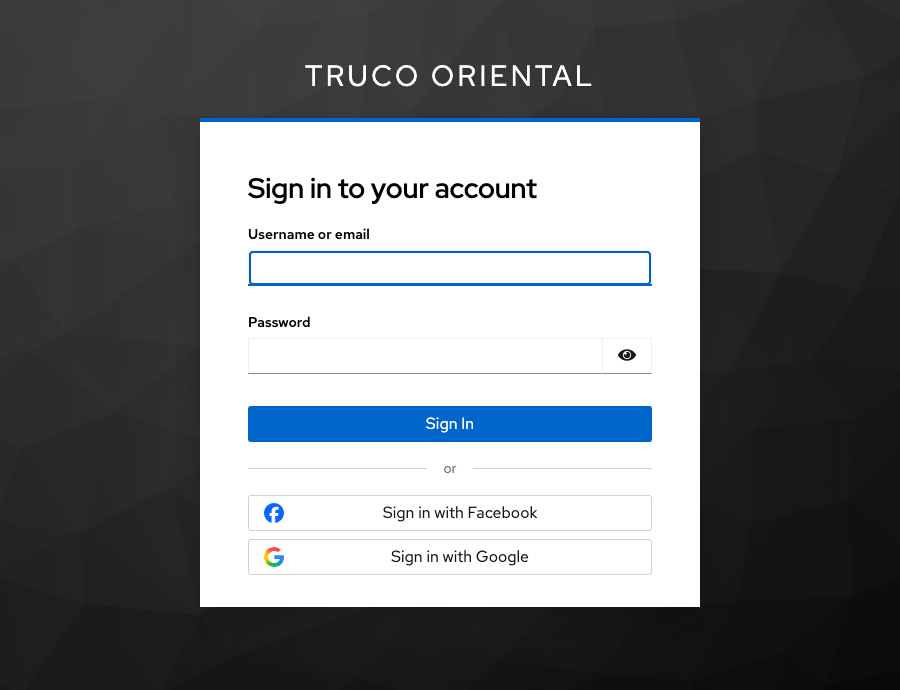
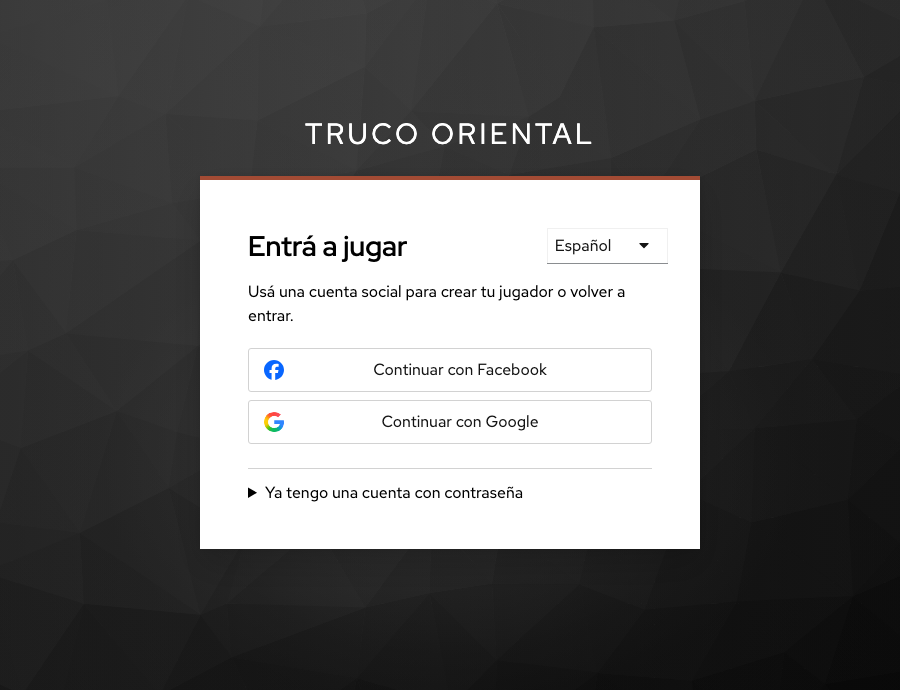
Priorizar el ingreso con Google y Facebook en la pantalla de Keycloak (#207)

diff --git a/infra/keycloak/truco-oriental/login/resources/css/truco.css b/infra/keycloak/truco-oriental/login/resources/css/truco.css
@@ -1,0 +1,38 @@
+main:has(.truco-social) {
+    --keycloak-card-top-color: #a34b34;
+}
+
+.truco-social > .kc-login-divider {
+    display: none;
+}
+
+#truco-social-intro {
+    margin-block-end: 1.25rem;
+}
+
+.truco-social #kc-social-providers ul {
+    padding-block-start: 0;
+}
+
+.truco-social #kc-social-providers a {
+    min-height: 2.75rem;
+}
+
+#truco-existing-account {
+    margin-block-start: 1.5rem;
+    border-block-start: 1px solid var(--pf-v5-global--BorderColor--100);
+}
+
+#truco-existing-account summary {
+    cursor: pointer;
+    padding-block: 0.75rem;
+}
+
+#truco-existing-account summary:focus-visible {
+    outline: 2px solid currentColor;
+    outline-offset: 2px;
+}
+
+#truco-existing-account[open] summary {
+    margin-block-end: 0.5rem;
+}

diff --git a/docs/ingreso-social.md b/docs/ingreso-social.md
@@ -1,8 +1,10 @@
 # Habilitar el ingreso con Google y Facebook
 
-Al elegir **Ingresar al juego**, el jugador llega a Keycloak. Allí puede usar su cuenta local o cualquiera de los proveedores que hayas habilitado. La API sigue recibiendo la identidad de Keycloak y emite su propia cookie de sesión. Podés habilitar un solo proveedor y agregar el otro más adelante.
+Al elegir **Ingresar al juego**, el jugador llega a **Entrá a jugar** en Keycloak. Para crear su jugador o volver a la mesa, elige **Continuar con Google** o **Continuar con Facebook**. La pantalla muestra solo los proveedores habilitados. Quien ya tiene una contraseña puede desplegar **Ya tengo una cuenta con contraseña**. El registro por correo está desactivado.
 
 ![Pantalla de ingreso de Truco Oriental con las opciones Facebook y Google](ingreso-social.png)
+
+Podés habilitar uno de los proveedores y agregar el otro más adelante. Si todavía no habilitaste ninguno, Keycloak muestra el formulario de contraseña. La API recibe la identidad de Keycloak y emite su propia cookie de sesión.
 
 ## URLs que tenés que registrar
 
@@ -67,8 +69,24 @@ node scripts/configurar-ingreso-social.mjs google
 node scripts/configurar-ingreso-social.mjs facebook
 ```
 
+## Activar la pantalla de Truco Oriental
+
+Con un volumen nuevo, Compose ya selecciona el tema `truco-oriental` para el realm `mesa-local`, con español e inglés y español como idioma predeterminado. Si el realm existe, Keycloak conserva su configuración al arrancar. Para actualizar la instalación local y elegir el tema sobre ese mismo volumen, ejecutá estos comandos. Reemplazá `admin-social-local` por tu administrador de `master` y escribí su contraseña cuando Keycloak la pida. [Importación al arrancar Keycloak](https://www.keycloak.org/server/importExport#_importing_a_realm_during_startup)
+
+```sh
+docker compose up -d --build --wait identidad
+docker compose exec identidad /opt/keycloak/bin/kcadm.sh update realms/mesa-local -n \
+  --no-config --server http://localhost:8080 --realm master --user admin-social-local \
+  -s loginTheme=truco-oriental -s internationalizationEnabled=true \
+  -s 'supportedLocales=["es","en"]' -s defaultLocale=es
+```
+
+En una instalación propia de Keycloak, incluí la carpeta `infra/keycloak/truco-oriental` en el directorio `themes` de cada servidor. En la consola administrativa, seleccioná el realm del juego, abrí **Realm settings → Themes**, elegí **truco-oriental** en **Login theme** y guardá. En **Realm settings → Localization**, activá **Internationalization**, agregá español e inglés a los idiomas disponibles y guardá español como predeterminado. El selector de idioma permite pasar de **Entrá a jugar** a **Sign in to play**. [Temas de Keycloak](https://www.keycloak.org/ui-customization/themes)
+
 ## Comprobar el ingreso y la vinculación
 
 Abrí **Ingresar al juego** desde una ventana privada. Elegí el proveedor, completá el ingreso y anotá el ID de jugador. Cerrá sesión y volvé a entrar con la misma cuenta en otra ventana privada. Deberías recuperar el mismo ID y poder volver a tu mesa. Probá también cancelar en la pantalla del proveedor y volver a iniciar el ingreso.
 
-El comando conserva el flujo de primer ingreso y los permisos de un proveedor que ya existía. Revisá los permisos y quitá los adicionales si solo usás el ingreso. Si el correo coincide con una cuenta existente, comprobá que el flujo exige demostrar el control de esa cuenta antes de vincularla. Conservá **Trust email** desactivado. Si el correo de confirmación resulta insuficiente, configurá la verificación con el método de ingreso original. Si Facebook omite el correo y el realm lo exige, el jugador puede completarlo al revisar su perfil. La identidad del jugador se guarda por emisor y sujeto de Keycloak. [Vinculación de identidades en Keycloak](https://www.keycloak.org/docs/latest/server_admin/#_identity_broker)
+Si el jugador entró primero con Google y después elige Facebook con el mismo correo, Keycloak puede pedirle que vuelva a ingresar con Google para verificar la cuenta existente. Al completar la vinculación, ambos botones deben llevar al mismo ID de jugador y a la misma mesa.
+
+El comando que activa un proveedor conserva su flujo de primer ingreso y sus permisos si ya existía. Revisá los permisos y quitá los adicionales si solo usás el ingreso. Comprobá que el flujo exige demostrar el control de la cuenta antes de vincularla. Conservá **Trust email** desactivado. Si el correo de confirmación resulta insuficiente, configurá la verificación con el método de ingreso original. Si Facebook omite el correo y el realm lo exige, el jugador puede completarlo al revisar su perfil. La identidad del jugador se guarda por emisor y sujeto de Keycloak. [Vinculación de identidades en Keycloak](https://www.keycloak.org/docs/latest/server_admin/#_identity_broker)
